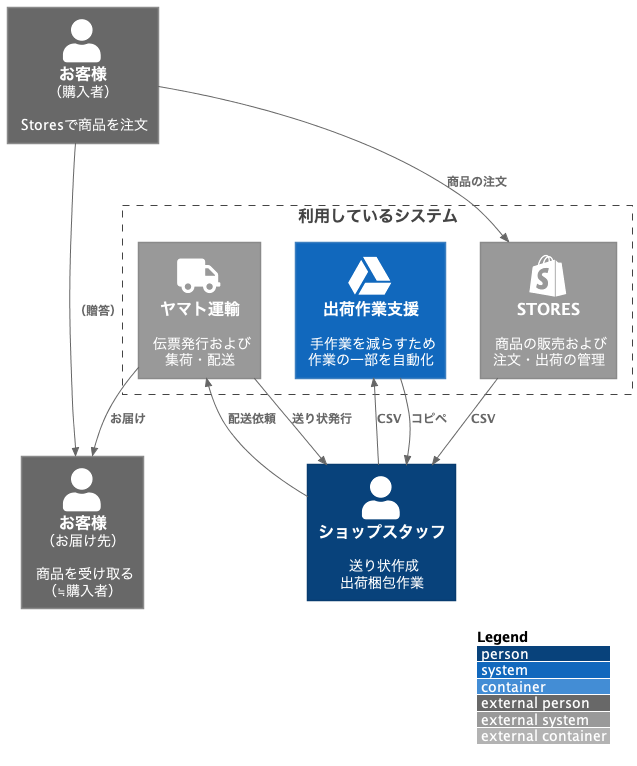
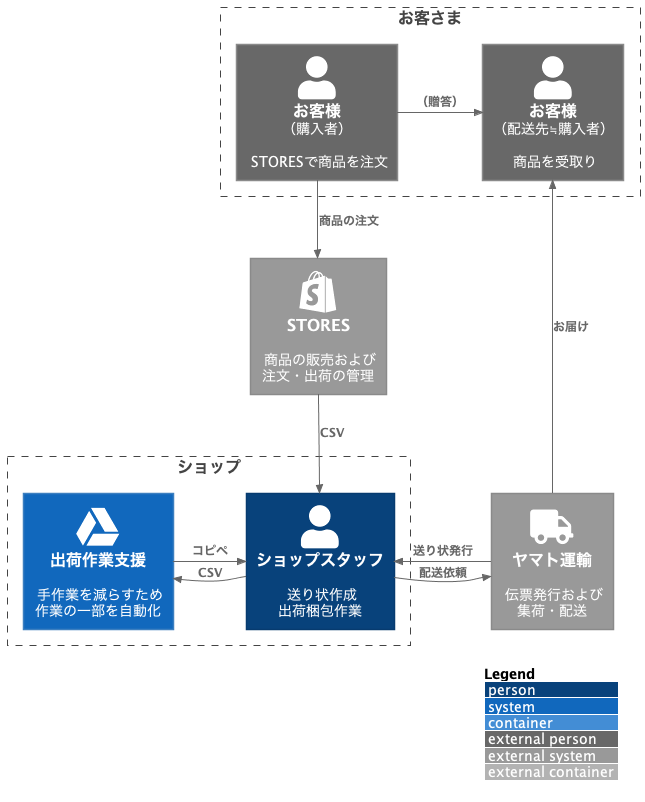
Contextの図表を改善

diff --git a/README.md b/README.md
@@ -3,24 +3,27 @@ assist editing Invoice data: from stores to yamato B2 Cloud
 
 ## はじめに
 
-[Stores（ストアーズ）](https://stores.jp/ec)には[「送り状CSV出力（ヤマトB2クラウド）」](https://officialmag.stores.jp/entry/kaigyou/kinou-okurijo-yamato)という機能あって、送り状を簡単に作成できる……はずだが、実際にはいくつか手作業が発生する。
+[Stores（ストアーズ）](https://stores.jp/ec)には[「送り状CSV出力（ヤマトB2クラウド）」](https://officialmag.stores.jp/entry/kaigyou/kinou-okurijo-yamato)という機能があって、送り状を簡単に作成できる……はずだが……。
 
-たとえば、送り状CSVデータをダウンロードしたら、Excelで編集したい人が多いと思われる。しかし、数値データの冒頭がゼロだと、ゼロが消えてしまう。
+おおまかな流れは下図の通り。注文をいただいて、発送する。
 
-> 電話番号フィールド`09087654321`を取り込むと`9087654321`となる。郵便番号も、北海道はゼロから始まる！ これらの手修正は避けたい……
+<img src="https://raw.githubusercontent.com/hnsol/GAS-stores2B2-assistance/main/images/DaaC/C4_Context_before.png" width=75%>
 
-そのほかにも（ショップ固有の条件で）、手入力が面倒なことがいろいろある。これらをまとめて、勉強も兼ねて、GAS(Google Apps Script)でやってみた。
+STORESから送り状用のCSVがダウンロードでき、「[手書き作業やデータのコピー＆ペーストの手間を省き、送り状発行業務の効率化](https://officialmag.stores.jp/entry/kaigyou/kinou-okurijo-yamato)」になるはずだが（なっていると思うが）、それでも意外とパソコン作業に手間がかかる。
+
+たとえば、送り状CSVデータをダウンロードしたら、Excelで編集したい人が多いと思う。ところが、データの冒頭がゼロだと、ゼロが消えてしまう。
+
+> 電話番号フィールド`09087654321`を取り込むと`9087654321`となる。郵便番号も、北海道はゼロから始まる！
+
+そのほかにも（ショップ固有の条件で）、いろいろ手作業がある。勉強も兼ねて、これらの自動化をGAS(Google Apps Script)で行った。
 
 <br>
 
 ## 全体ワークフローと、「コンピュータに任せたい」こと
 
+ワークフローをもう少し拡大する。下図の真ん中あたりの「出荷作業支援」が今回のGASが支援する範囲。手作業をなるべく減らし、ミスや手戻りがなくなるよう、GASにがんばってもらいたい。
 
-<img src="https://raw.githubusercontent.com/hnsol/GAS-stores2B2-assistance/main/images/DaaC/C4_Context_before.png" width=50%>
-
-
-下図の真ん中あたりの「出荷作業支援」が今回のGASが支援する範囲。手作業をなるべく減らし、ミスや手戻りがなくなるよう、GASにがんばってもらいたい。
-<img src="https://github.com/hnsol/GAS-stores2B2-assistance/blob/main/images/DaaC/C4_Context.png" width=50%>
+<img src="https://raw.githubusercontent.com/hnsol/GAS-stores2B2-assistance/main/images/DaaC/C4_Context.png" width=75%>
 
 
 ### コンピュータに任せたいこと
